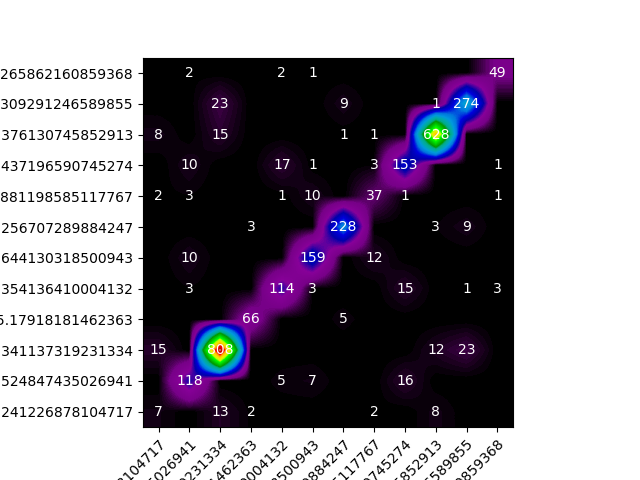
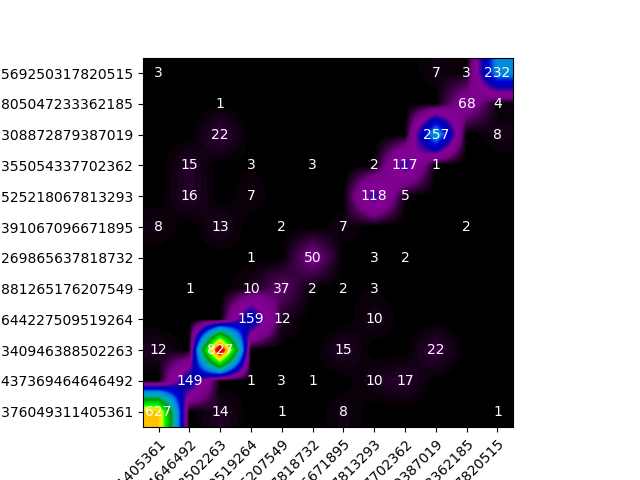
ok

diff --git a/Fitting_lengkap.py b/Fitting_lengkap.py
@@ -10,26 +10,26 @@ import os
 
 "INPUT"
 #number of state
-n = 25
+n = 16
 #covariance type
 covar_type = "full"
 #number of iteration
 iterr = 1000
 #figure name
-figname1 = "result__150K300mVCurrent11until100n%d" % n
-figname2 = "result__150K300mVCurrent11until100n25analysis1_3d_scatterplot"
-figname3 = "result__150K300mVCurrent11until100n25analysis1_colormapplot_1"
+figname1 = "result__150K300mVCurrent12until40n%d" % n
+figname2 = "result__150K300mVCurrent12until40n16analysis1_3d_scatterplot"
+figname3 = "result__150K300mVCurrent12until40n16analysis1_colormapplot_1"
 # figname4 = "result__analysis1_colormapplot_2"
 
 script_dir = os.path.dirname(__file__)
-results_dir = os.path.join(script_dir, '150K300mVCurrent11until100n25/')
+results_dir = os.path.join(script_dir, '150K300mVCurrent12until40n16/')
 if not os.path.isdir(results_dir):
     os.makedirs(results_dir)
 
 "Import data from excel file"
 from xlrd import open_workbook
 book = open_workbook('Data2.xlsx')
-sheet = book.sheet_by_index(10)
+sheet = book.sheet_by_index(11)
 
 "Input"
 #start_time
